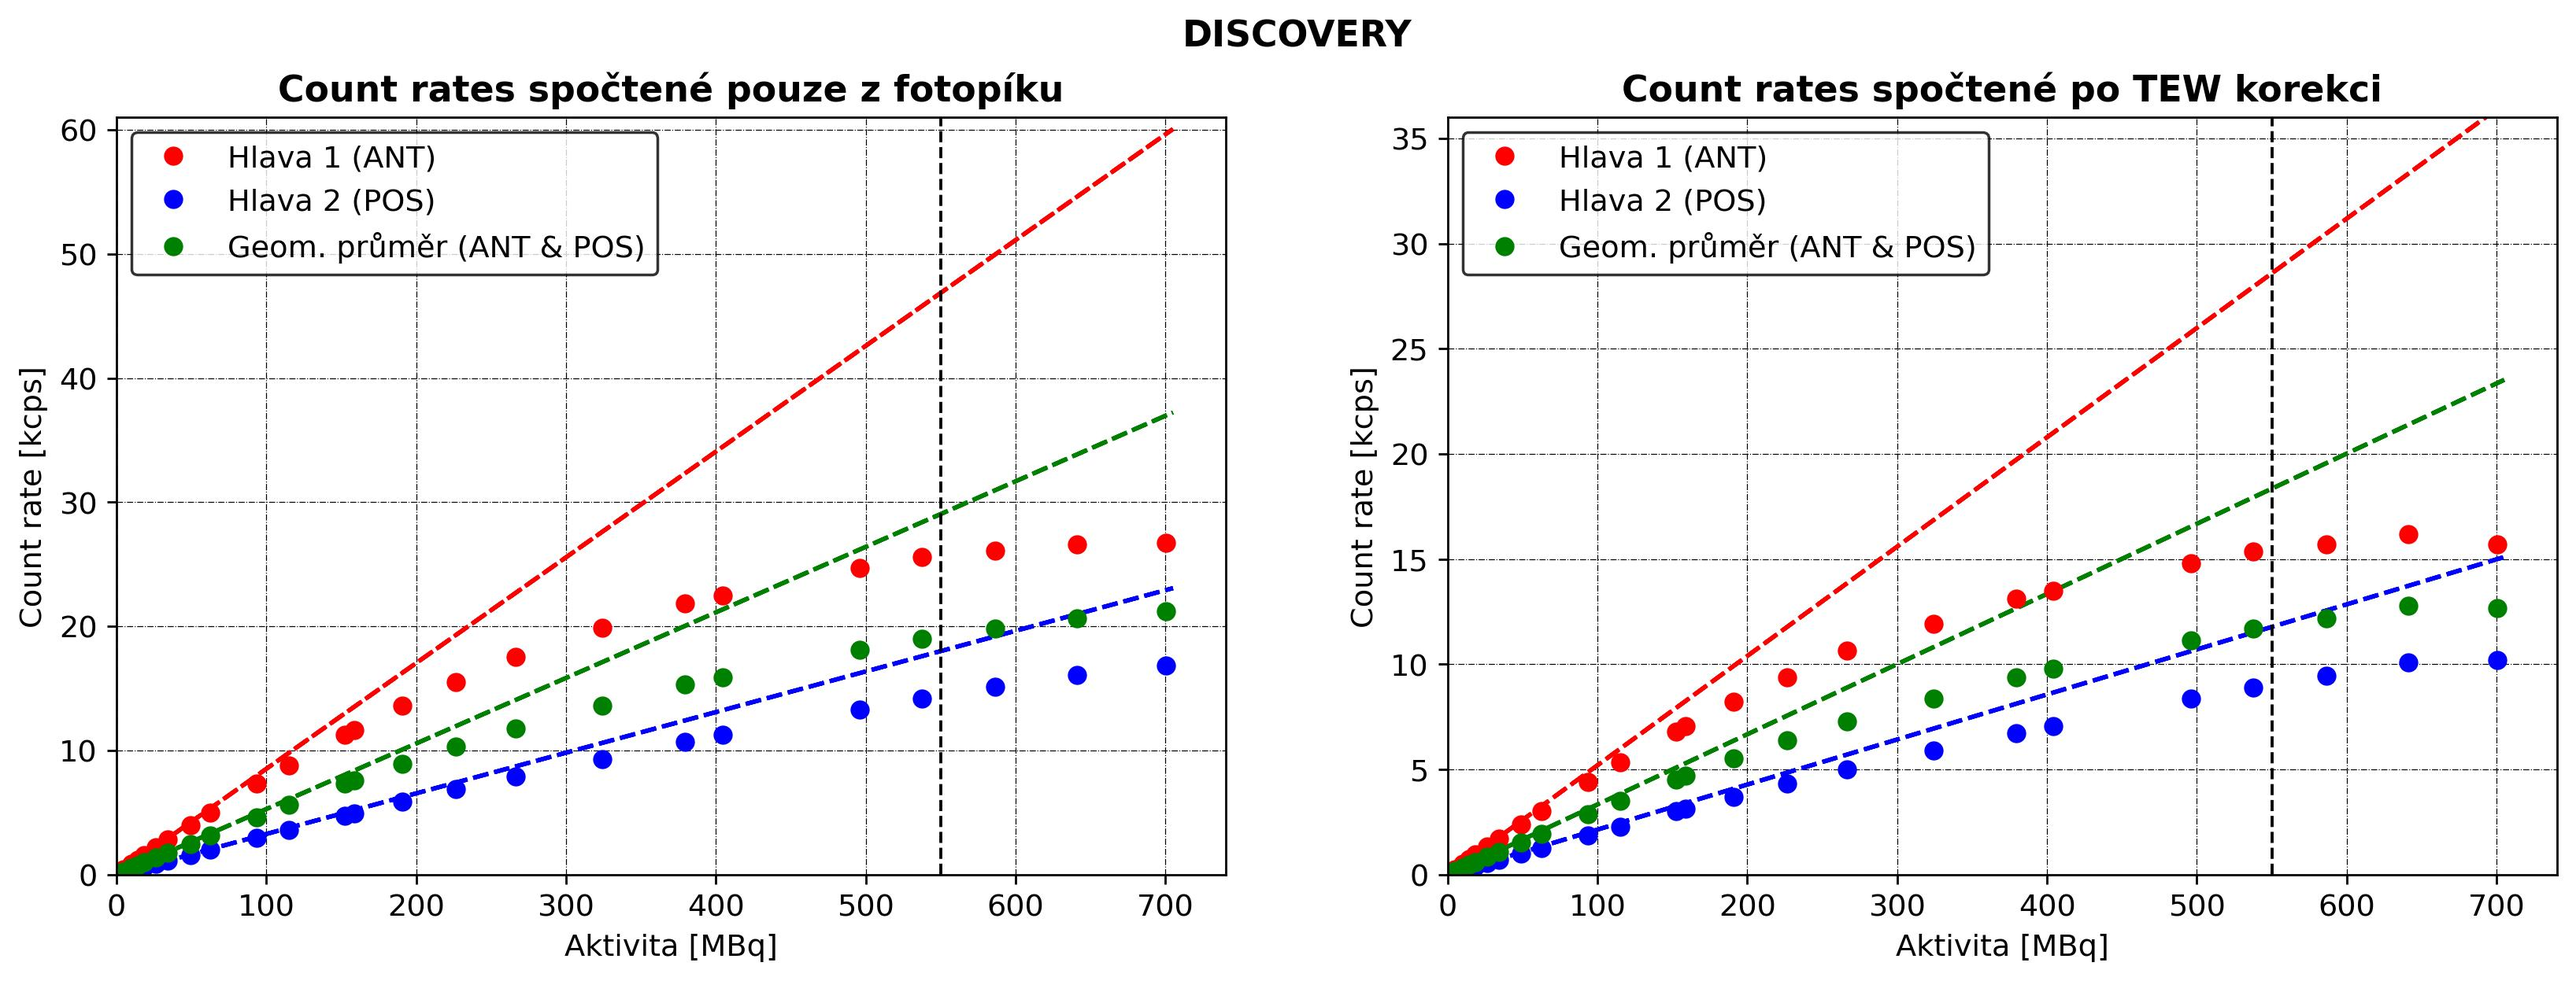
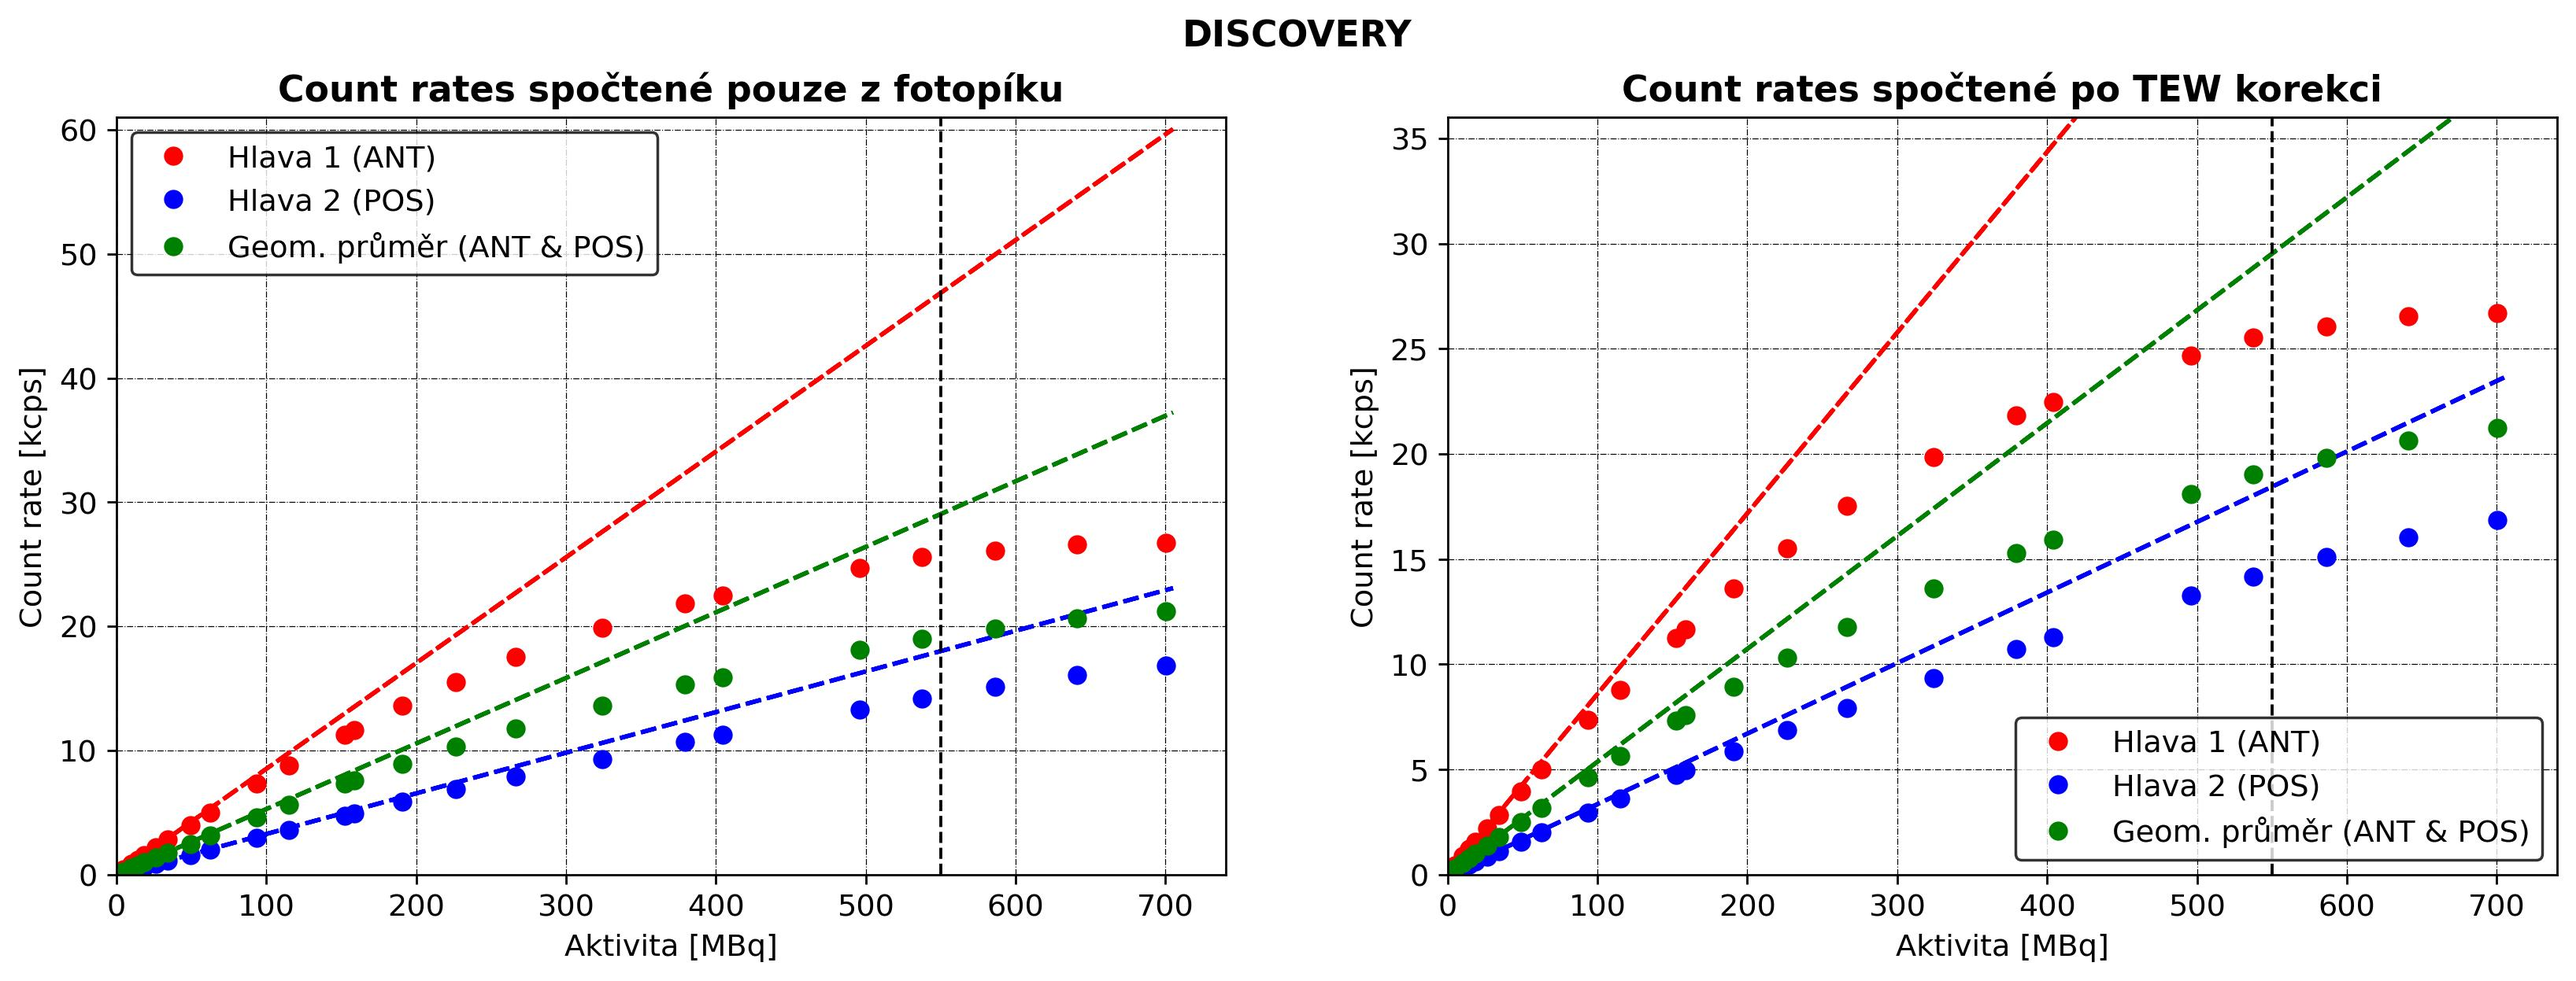
Zmena TEW

diff --git a/tew_correction.py b/tew_correction.py
@@ -9,9 +9,6 @@ def tew_correction(em_image, sc1_image, sc2_image):
     # Subtract scatter estimate from the EM image
     corrected_image = em_image - scatter_estimate
 
-    # Ensure no negative values
-    corrected_image = np.clip(corrected_image, 0, None)
-
     return corrected_image
 
 
